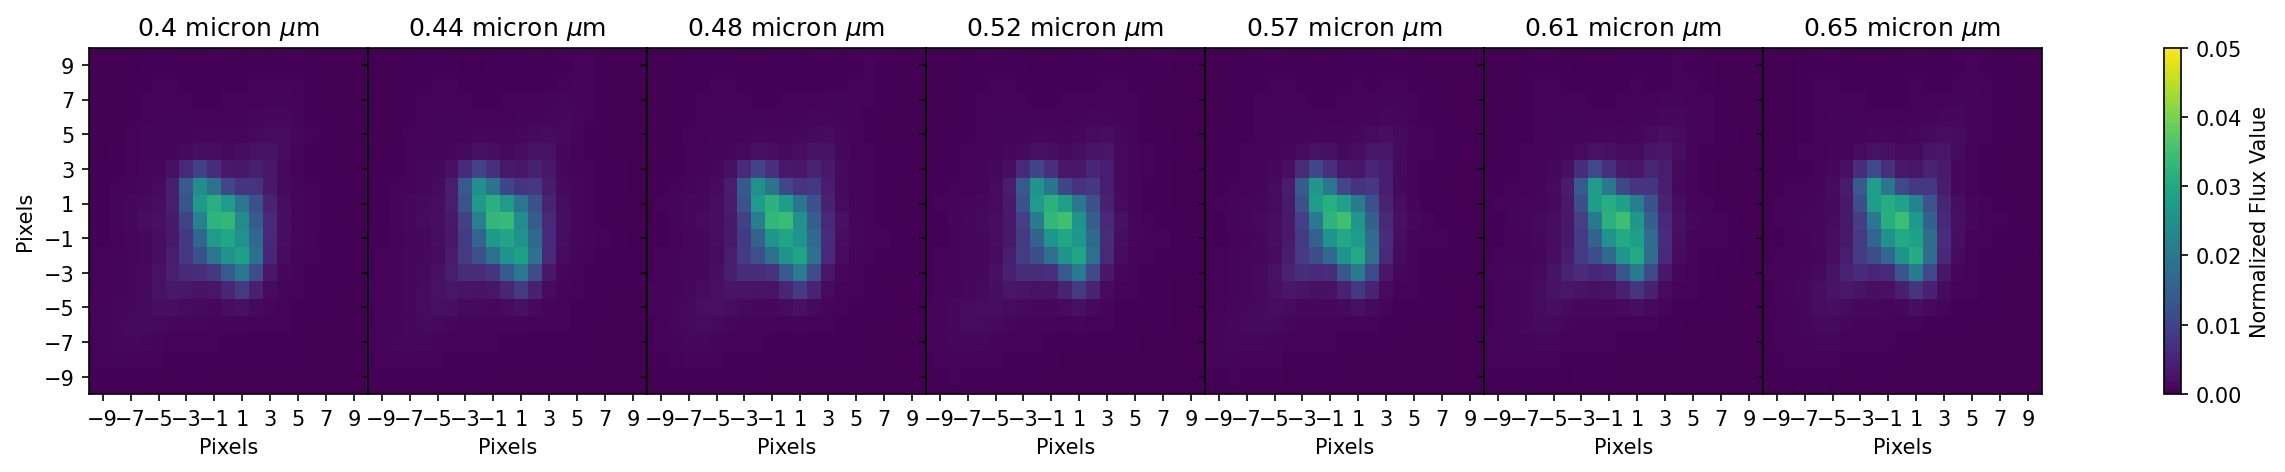
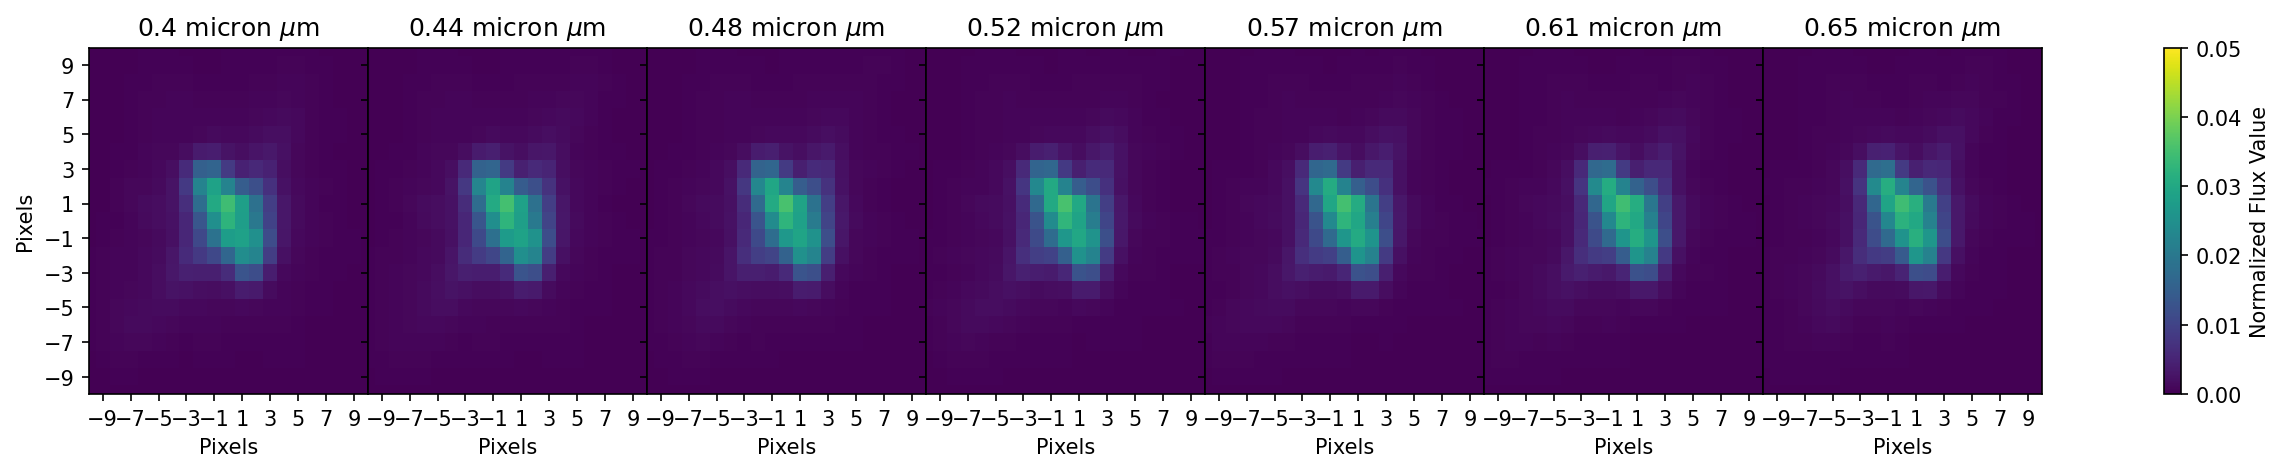
update positions

diff --git a/tests/test_scene.py b/tests/test_scene.py
@@ -1,5 +1,6 @@
 # Standard library
 import os
+from copy import deepcopy
 
 # Third-party
 import matplotlib.pyplot as plt
@@ -275,3 +276,47 @@ def test_centered():
             dc = cmid - C.mean() - delta_pos[1]
             assert np.allclose(dr - np.median(dr), 0, atol=0.05)
             assert np.allclose(dc - np.median(dc), 0, atol=0.05)
+
+
+def test_aligned():
+    p = PSF.from_name("visda_fallback")
+    c, r = deepcopy(p.psf_column.value), deepcopy(p.psf_row.value)
+    C, R = np.meshgrid(c, r)
+    ar = p.psf(row=0, column=0)
+    x1, y1 = np.average(C, weights=ar), np.average(R, weights=ar)
+
+    dR, dC = np.mgrid[-0.5:0.5:11j, -0.5:0.5:11j]
+
+    shape = (100, 101)
+    corner = (-50, -50)
+    R, C = np.mgrid[: shape[0], : shape[1]]
+    R -= 50
+    C -= 50
+    x, y = np.zeros((2, np.prod(dC.shape)))
+    for idx, dc, dr in zip(range(np.prod(dC.shape)), dC.ravel(), dR.ravel()):
+        s = Scene(
+            locations=np.asarray([dr, dc])[None, :],
+            shape=shape,
+            corner=corner,
+            psf=p,
+        )
+        ar = s.model(np.ones(1))[0]
+        x[idx], y[idx] = np.average(C, weights=ar), np.average(R, weights=ar)
+    x, y = x.reshape(dC.shape), y.reshape(dR.shape)
+    assert np.allclose(dC + x1, x, atol=0.05)
+    assert np.allclose(dR + y1, y, atol=0.05)
+
+    x, y = np.zeros((2, np.prod(dC.shape)))
+    s = Scene(
+        locations=np.asarray([0, 0])[None, :],
+        shape=shape,
+        corner=corner,
+        psf=p,
+    )
+    for idx, dc, dr in zip(range(np.prod(dC.shape)), dC.ravel(), dR.ravel()):
+        delta_pos = (np.asarray([dr, dc])[None, :] * np.ones(2)[:, None]).T
+        ar = s.model(np.ones((1, 2)), delta_pos=delta_pos)[0]
+        x[idx], y[idx] = np.average(C, weights=ar), np.average(R, weights=ar)
+    x, y = x.reshape(dC.shape), y.reshape(dR.shape)
+    assert np.allclose(dC + x1, x, atol=0.05)
+    assert np.allclose(dR + y1, y, atol=0.05)

diff --git a/tests/test_psf.py b/tests/test_psf.py
@@ -1,5 +1,6 @@
 # Standard library
 import os
+from copy import deepcopy
 
 # Third-party
 import astropy.units as u
@@ -268,6 +269,42 @@ def test_nir_psf():
     p = PSF.from_name("nirda")
     assert hasattr(p, "trace_wavelength")
     assert hasattr(p, "trace_sensitivity")
+
+
+def test_aligned():
+    """Tests that the PRF function produces an image with the same center as the PSF function"""
+    p = PSF.from_name("visda_fallback")
+    c, r = deepcopy(p.psf_column.value), deepcopy(p.psf_row.value)
+    C, R = np.meshgrid(c, r)
+    psf0 = p.psf(row=0, column=0)
+    x1, y1 = np.average(C, weights=psf0), np.average(R, weights=psf0)
+
+    rb, cb, psfb = p.prf(row=0, column=0)
+    Cb, Rb = np.meshgrid(cb, rb)
+    xb, yb = np.average(Cb, weights=psfb), np.average(Rb, weights=psfb)
+    assert np.isclose(x1, xb, atol=0.01)
+    assert np.isclose(y1, yb, atol=0.01)
+
+
+def test_aligned_grid():
+    p = PSF.from_name("visda_fallback")
+    c, r = deepcopy(p.psf_column.value), deepcopy(p.psf_row.value)
+    C, R = np.meshgrid(c, r)
+    ar = p.psf(row=0, column=0)
+    x1, y1 = np.average(C, weights=ar), np.average(R, weights=ar)
+
+    dR, dC = np.mgrid[-0.5:0.5:11j, -0.5:0.5:11j]
+
+    x, y = np.zeros((2, np.prod(dC.shape)))
+    for idx, dc, dr in zip(range(np.prod(dC.shape)), dC.ravel(), dR.ravel()):
+        rb, cb, psfb = p.prf(row=dr, column=dc)
+        Cb, Rb = np.meshgrid(cb, rb)
+        x[idx], y[idx] = np.average(Cb, weights=psfb), np.average(
+            Rb, weights=psfb
+        )
+    x, y = x.reshape(dC.shape), y.reshape(dR.shape)
+    assert np.allclose(dC + x1, x, atol=0.05)
+    assert np.allclose(dR + y1, y, atol=0.05)
 
 
 # Needs to test the `extrapolate` funcionality

diff --git a/src/pandorapsf/psf.py b/src/pandorapsf/psf.py
@@ -654,8 +654,8 @@ class PSF(object):
                 psf0 = self.psf(**kwargs)
         rb, cb, psfb = bin_prf(
             psf0,
-            self.psf_row.value,
-            self.psf_column.value,
+            self.psf_row.value + 0.5,
+            self.psf_column.value + 0.5,
             (row.value, column.value),
             normalize=False,
         )
@@ -663,15 +663,15 @@ class PSF(object):
         if gradients:
             _, _, dpsf0b = bin_prf(
                 dpsf0,
-                self.psf_row.value,
-                self.psf_column.value,
+                self.psf_row.value + 0.5,
+                self.psf_column.value + 0.5,
                 (row.value, column.value),
                 normalize=False,
             )
             _, _, dpsf1b = bin_prf(
                 dpsf1,
-                self.psf_row.value,
-                self.psf_column.value,
+                self.psf_row.value + 0.5,
+                self.psf_column.value + 0.5,
                 (row.value, column.value),
                 normalize=False,
             )
